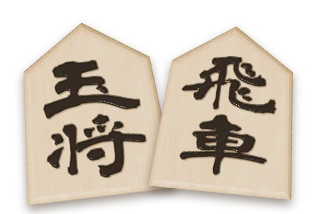
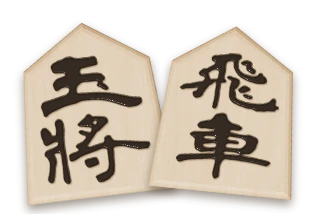
将棋3D駒：隷書を彫り駒らしく（骨格に沿った均一な太さ・大きく・將）
Claude-Session: https://claude.ai/code/session_01EiWRAWLV8eg6m15v5x8gee

Changed region(s): [[0.125, 0.2523, 0.4688, 0.8692], [0.5625, 0.2243, 0.875, 0.5607], [0.5312, 0.5607, 0.8438, 0.8411]]

diff --git a/atlas/lazy.js b/atlas/lazy.js
@@ -5,7 +5,7 @@
      AtlasLazy.has3D(id) / hasPlay(id) / hasRules(id) — known before loading; AtlasLazy.loaded(id) */
 (function () {
 'use strict';
-const G = {"reversi": ["games/reversi.js?v=38", "rules/reversi.js?v=14"], "shogi": ["models/shogi.js?v=51", "games/shogi-play.js?v=33", "games/shogi.js?v=14", "rules/shogi.js?v=21"], "chess": ["models/chess.js?v=16", "games/chess.js?v=15", "rules/chess.js?v=7"], "backgammon": ["models/backgammon.js?v=118", "games/backgammon.js?v=22", "rules/backgammon.js?v=11"], "gomoku": ["models/goban.js?v=14", "games/gomoku.js?v=12", "rules/gomoku.js?v=9"], "go": ["models/goban.js?v=14", "games/go.js?v=7", "rules/go.js?v=7"], "hex": ["models/goban.js?v=14", "models/hex.js?v=2", "games/hex.js?v=6", "rules/hex.js?v=6"], "tafl": ["games/tafl.js?v=15", "rules/tafl.js?v=7"], "xiangqi": ["models/xiangqi.js?v=4", "games/xiangqi.js?v=13", "rules/xiangqi.js?v=6"], "janggi": ["models/xiangqi.js?v=4", "models/janggi.js?v=3", "games/janggi.js?v=5", "rules/janggi.js?v=2"], "checkers": ["models/checkers.js?v=17", "games/checkers.js?v=8", "rules/checkers.js?v=4"], "ugolki": ["models/checkers.js?v=17", "models/ugolki.js?v=4", "games/ugolki.js?v=8", "rules/ugolki.js?v=8"], "morris": ["models/morris.js?v=7", "games/morris-pieces.js?v=2", "games/morris.js?v=7", "rules/morris.js?v=5"], "connect4": ["models/connect4.js?v=5", "games/connect4-tiles.js?v=1", "games/connect4.js?v=5", "rules/connect4.js?v=3"], "mancala": ["models/mancala.js?v=5", "games/mancala.js?v=10", "rules/mancala.js?v=4"], "dots": ["models/dots.js?v=4", "games/dots.js?v=9", "rules/dots.js?v=3"], "ur": ["models/ur-dice.js?v=2", "models/ur.js?v=4", "games/ur-kit.js?v=15", "games/ur.js?v=11", "rules/ur.js?v=16"], "fanorona": ["models/fanorona.js?v=4", "games/fanorona.js?v=6", "rules/fanorona.js?v=8"], "konane": ["models/konane.js?v=7", "games/konane.js?v=11", "rules/konane.js?v=5"], "amazons": ["models/amazons.js?v=7", "games/amazons.js?v=10", "rules/amazons.js?v=4"], "senet": ["models/ur-dice.js?v=2", "models/senet.js?v=10", "games/senet-kit.js?v=5", "games/senet.js?v=16", "rules/senet.js?v=8"], "agon": ["models/agon.js?v=4", "games/agon.js?v=11", "rules/agon.js?v=5"], "alquerque": ["models/alquerque.js?v=3", "rules/alquerque.js?v=6"], "ludo": ["../ludo/engine.js?v=3", "../ludo/house.js?v=7", "../ludo/board2d.js?v=7", "../ludo/board-art.js?v=3", "models/ludo.js?v=10", "games/ludo.js?v=28", "rules/ludo.js?v=3"], "carrom": ["../carrom/engine.js?v=6", "models/carrom.js?v=17", "games/carrom.js?v=37", "rules/carrom.js?v=8"], "crokinole": ["../carrom/engine.js?v=6", "games/carrom.js?v=37", "../crokinole/engine.js?v=3", "models/crokinole.js?v=12", "games/crokinole.js?v=14", "rules/crokinole.js?v=4"], "hockey": ["../hockey/engine.js?v=13", "models/hockey.js?v=8", "games/hockey.js?v=19", "rules/hockey.js?v=7"], "peg": ["../peg/engine.js?v=1", "../peg/i18n.js?v=6", "models/peg.js?v=6", "games/peg.js?v=1", "rules/peg.js?v=4"]};
+const G = {"reversi": ["games/reversi.js?v=38", "rules/reversi.js?v=14"], "shogi": ["models/shogi.js?v=52", "games/shogi-play.js?v=33", "games/shogi.js?v=14", "rules/shogi.js?v=21"], "chess": ["models/chess.js?v=16", "games/chess.js?v=15", "rules/chess.js?v=7"], "backgammon": ["models/backgammon.js?v=118", "games/backgammon.js?v=22", "rules/backgammon.js?v=11"], "gomoku": ["models/goban.js?v=14", "games/gomoku.js?v=12", "rules/gomoku.js?v=9"], "go": ["models/goban.js?v=14", "games/go.js?v=7", "rules/go.js?v=7"], "hex": ["models/goban.js?v=14", "models/hex.js?v=2", "games/hex.js?v=6", "rules/hex.js?v=6"], "tafl": ["games/tafl.js?v=15", "rules/tafl.js?v=7"], "xiangqi": ["models/xiangqi.js?v=4", "games/xiangqi.js?v=13", "rules/xiangqi.js?v=6"], "janggi": ["models/xiangqi.js?v=4", "models/janggi.js?v=3", "games/janggi.js?v=5", "rules/janggi.js?v=2"], "checkers": ["models/checkers.js?v=17", "games/checkers.js?v=8", "rules/checkers.js?v=4"], "ugolki": ["models/checkers.js?v=17", "models/ugolki.js?v=4", "games/ugolki.js?v=8", "rules/ugolki.js?v=8"], "morris": ["models/morris.js?v=7", "games/morris-pieces.js?v=2", "games/morris.js?v=7", "rules/morris.js?v=5"], "connect4": ["models/connect4.js?v=5", "games/connect4-tiles.js?v=1", "games/connect4.js?v=5", "rules/connect4.js?v=3"], "mancala": ["models/mancala.js?v=5", "games/mancala.js?v=10", "rules/mancala.js?v=4"], "dots": ["models/dots.js?v=4", "games/dots.js?v=9", "rules/dots.js?v=3"], "ur": ["models/ur-dice.js?v=2", "models/ur.js?v=4", "games/ur-kit.js?v=15", "games/ur.js?v=11", "rules/ur.js?v=16"], "fanorona": ["models/fanorona.js?v=4", "games/fanorona.js?v=6", "rules/fanorona.js?v=8"], "konane": ["models/konane.js?v=7", "games/konane.js?v=11", "rules/konane.js?v=5"], "amazons": ["models/amazons.js?v=7", "games/amazons.js?v=10", "rules/amazons.js?v=4"], "senet": ["models/ur-dice.js?v=2", "models/senet.js?v=10", "games/senet-kit.js?v=5", "games/senet.js?v=16", "rules/senet.js?v=8"], "agon": ["models/agon.js?v=4", "games/agon.js?v=11", "rules/agon.js?v=5"], "alquerque": ["models/alquerque.js?v=3", "rules/alquerque.js?v=6"], "ludo": ["../ludo/engine.js?v=3", "../ludo/house.js?v=7", "../ludo/board2d.js?v=7", "../ludo/board-art.js?v=3", "models/ludo.js?v=10", "games/ludo.js?v=28", "rules/ludo.js?v=3"], "carrom": ["../carrom/engine.js?v=6", "models/carrom.js?v=17", "games/carrom.js?v=37", "rules/carrom.js?v=8"], "crokinole": ["../carrom/engine.js?v=6", "games/carrom.js?v=37", "../crokinole/engine.js?v=3", "models/crokinole.js?v=12", "games/crokinole.js?v=14", "rules/crokinole.js?v=4"], "hockey": ["../hockey/engine.js?v=13", "models/hockey.js?v=8", "games/hockey.js?v=19", "rules/hockey.js?v=7"], "peg": ["../peg/engine.js?v=1", "../peg/i18n.js?v=6", "models/peg.js?v=6", "games/peg.js?v=1", "rules/peg.js?v=4"]};
 const F = {"reversi": {"t3": true, "play": true, "rules": true}, "shogi": {"t3": true, "play": true, "rules": true}, "chess": {"t3": true, "play": true, "rules": true}, "backgammon": {"t3": true, "play": true, "rules": true}, "gomoku": {"t3": true, "play": true, "rules": true}, "go": {"t3": true, "play": true, "rules": true}, "hex": {"t3": true, "play": true, "rules": true}, "tafl": {"t3": true, "play": true, "rules": true}, "xiangqi": {"t3": true, "play": true, "rules": true}, "janggi": {"t3": true, "play": true, "rules": true}, "checkers": {"t3": true, "play": true, "rules": true}, "ugolki": {"t3": true, "play": true, "rules": true}, "morris": {"t3": true, "play": true, "rules": true}, "connect4": {"t3": true, "play": true, "rules": true}, "mancala": {"t3": true, "play": true, "rules": true}, "dots": {"t3": true, "play": true, "rules": true}, "ur": {"t3": true, "play": true, "rules": true}, "fanorona": {"t3": true, "play": true, "rules": true}, "konane": {"t3": true, "play": true, "rules": true}, "amazons": {"t3": true, "play": true, "rules": true}, "senet": {"t3": true, "play": true, "rules": true}, "agon": {"t3": true, "play": true, "rules": true}, "alquerque": {"t3": true, "play": false, "rules": true}, "ludo": {"t3": true, "play": true, "rules": true}, "carrom": {"t3": true, "play": true, "rules": true}, "crokinole": {"t3": true, "play": true, "rules": true}, "hockey": {"t3": true, "play": true, "rules": true}, "peg": {"t3": true, "play": true, "rules": true}};
 const done = new Set(), loading = new Map(), ok = new Set();
 function load(src) {

diff --git a/dots/index.html b/dots/index.html
@@ -2299,7 +2299,7 @@ document.querySelector('#rsResume').onclick = () => { document.querySelector('#r
   const f = document.createElement('link'); f.rel = 'stylesheet'; f.href = 'https://fonts.googleapis.com/css2?family=RocknRoll+One&family=Zen+Maru+Gothic:wght@500;700;900&family=Fredoka:wght@600;700&family=Kalam:wght@400;700&family=Zen+Kurenaido&family=Nanum+Pen+Script&family=Long+Cang&family=Aref+Ruqaa:wght@700&display=swap'; document.head.appendChild(f);   // (Kalam … Aref Ruqaa: the handwritten box initials and tally on the notebook page)
   const load = src => new Promise((res, rej) => { const s = document.createElement('script'); s.src = src; s.onload = res; s.onerror = rej; document.body.appendChild(s); });
   if (window.AtlasLoading) { AtlasLoading.show(); setTimeout(() => AtlasLoading.hide(), 12000); }   // safety net
-  load('https://cdnjs.cloudflare.com/ajax/libs/three.js/r128/three.min.js').then(() => load('../atlas/img/tex/baked.js?v=1')).then(() => load('../atlas/table3d.js?v=152')).then(() => load('../atlas/tables3d.js?v=71')).then(() => load('../atlas/skin/common.js?v=71')).then(() => load('../atlas/models/dots.js?v=3l14')).then(() => load('../atlas/skin/dots.js?v=7l14'))
+  load('https://cdnjs.cloudflare.com/ajax/libs/three.js/r128/three.min.js').then(() => load('../atlas/img/tex/baked.js?v=1')).then(() => load('../atlas/table3d.js?v=152')).then(() => load('../atlas/tables3d.js?v=72')).then(() => load('../atlas/skin/common.js?v=71')).then(() => load('../atlas/models/dots.js?v=3l14')).then(() => load('../atlas/skin/dots.js?v=7l14'))
     .catch(() => { document.documentElement.classList.remove('atlas-skin'); if (window.AtlasLoading) AtlasLoading.hide(); });
 })();
 </script>

diff --git a/ur/index.html b/ur/index.html
@@ -1029,7 +1029,7 @@ html:not([lang=ja]):not([lang=zh]):not([lang="zh-TW"]):not([lang=ko]) .result-bi
   const f = document.createElement('link'); f.rel = 'stylesheet'; f.href = 'https://fonts.googleapis.com/css2?family=RocknRoll+One&family=Zen+Maru+Gothic:wght@500;700;900&family=Fredoka:wght@600;700&display=swap'; document.head.appendChild(f);
   const load = src => new Promise((res, rej) => { const s = document.createElement('script'); s.src = src; s.onload = res; s.onerror = rej; document.body.appendChild(s); });
   if (window.AtlasLoading) { AtlasLoading.show(); setTimeout(() => AtlasLoading.hide(), 12000); }   // safety net
-  load('https://cdnjs.cloudflare.com/ajax/libs/three.js/r128/three.min.js').then(() => load('../atlas/img/tex/baked.js?v=1')).then(() => load('../atlas/table3d.js?v=152')).then(() => load('../atlas/tables3d.js?v=71')).then(() => load('../atlas/skin/common.js?v=71')).then(() => load('../atlas/models/ur-dice.js?v=2l14')).then(() => load('../atlas/models/ur.js?v=3l14')).then(() => load('../atlas/skin/ur.js?v=14l14'))
+  load('https://cdnjs.cloudflare.com/ajax/libs/three.js/r128/three.min.js').then(() => load('../atlas/img/tex/baked.js?v=1')).then(() => load('../atlas/table3d.js?v=152')).then(() => load('../atlas/tables3d.js?v=72')).then(() => load('../atlas/skin/common.js?v=71')).then(() => load('../atlas/models/ur-dice.js?v=2l14')).then(() => load('../atlas/models/ur.js?v=3l14')).then(() => load('../atlas/skin/ur.js?v=14l14'))
     .catch(() => { const u = new URL(location.href); u.searchParams.delete('skin'); location.replace(u.href); });   // (the 3D files are missing: the plain 2D page)
 })();
 </script>

diff --git a/connect4/index.html b/connect4/index.html
@@ -3390,7 +3390,7 @@ document.addEventListener('keydown', e => {
   const f = document.createElement('link'); f.rel = 'stylesheet'; f.href = 'https://fonts.googleapis.com/css2?family=RocknRoll+One&family=Zen+Maru+Gothic:wght@500;700;900&family=Fredoka:wght@600;700&display=swap'; document.head.appendChild(f);
   const load = src => new Promise((res, rej) => { const s = document.createElement('script'); s.src = src; s.onload = res; s.onerror = rej; document.body.appendChild(s); });
   if (window.AtlasLoading) { AtlasLoading.show(); setTimeout(() => AtlasLoading.hide(), 12000); }   // safety net
-  load('https://cdnjs.cloudflare.com/ajax/libs/three.js/r128/three.min.js').then(() => load('../atlas/img/tex/baked.js?v=1')).then(() => load('../atlas/table3d.js?v=152')).then(() => load('../atlas/tables3d.js?v=71')).then(() => load('../atlas/skin/common.js?v=71')).then(() => load('../atlas/models/connect4.js?v=5l14')).then(() => load('../atlas/games/connect4-tiles.js?v=1l14')).then(() => load('../atlas/skin/connect4.js?v=6l14-aim'))
+  load('https://cdnjs.cloudflare.com/ajax/libs/three.js/r128/three.min.js').then(() => load('../atlas/img/tex/baked.js?v=1')).then(() => load('../atlas/table3d.js?v=152')).then(() => load('../atlas/tables3d.js?v=72')).then(() => load('../atlas/skin/common.js?v=71')).then(() => load('../atlas/models/connect4.js?v=5l14')).then(() => load('../atlas/games/connect4-tiles.js?v=1l14')).then(() => load('../atlas/skin/connect4.js?v=6l14-aim'))
     .catch(() => { document.documentElement.classList.remove('atlas-skin'); if (window.AtlasLoading) AtlasLoading.hide(); });
 })();
 </script>

diff --git a/morris/index.html b/morris/index.html
@@ -3897,7 +3897,7 @@ window.addEventListener('resize', () => renderFx());
   const f = document.createElement('link'); f.rel = 'stylesheet'; f.href = 'https://fonts.googleapis.com/css2?family=RocknRoll+One&family=Zen+Maru+Gothic:wght@500;700;900&family=Fredoka:wght@600;700&display=swap'; document.head.appendChild(f);
   const load = src => new Promise((res, rej) => { const s = document.createElement('script'); s.src = src; s.onload = res; s.onerror = rej; document.body.appendChild(s); });
   if (window.AtlasLoading) { AtlasLoading.show(); setTimeout(() => AtlasLoading.hide(), 12000); }   // safety net
-  load('https://cdnjs.cloudflare.com/ajax/libs/three.js/r128/three.min.js').then(() => load('../atlas/img/tex/baked.js?v=1')).then(() => load('../atlas/table3d.js?v=152')).then(() => load('../atlas/tables3d.js?v=71')).then(() => load('../atlas/skin/common.js?v=71')).then(() => load('../atlas/models/morris.js?v=6l14')).then(() => load('../atlas/games/morris-pieces.js?v=2l14')).then(() => load('../atlas/skin/morris.js?v=6l15'))
+  load('https://cdnjs.cloudflare.com/ajax/libs/three.js/r128/three.min.js').then(() => load('../atlas/img/tex/baked.js?v=1')).then(() => load('../atlas/table3d.js?v=152')).then(() => load('../atlas/tables3d.js?v=72')).then(() => load('../atlas/skin/common.js?v=71')).then(() => load('../atlas/models/morris.js?v=6l14')).then(() => load('../atlas/games/morris-pieces.js?v=2l14')).then(() => load('../atlas/skin/morris.js?v=6l15'))
     .catch(() => { document.documentElement.classList.remove('atlas-skin'); if (window.AtlasLoading) AtlasLoading.hide(); });
 })();
 </script>

diff --git a/senet/index.html b/senet/index.html
@@ -1030,7 +1030,7 @@ html:not([lang=ja]):not([lang=zh]):not([lang=zh-TW]):not([lang=ko]) .result-big{
   const f = document.createElement('link'); f.rel = 'stylesheet'; f.href = 'https://fonts.googleapis.com/css2?family=RocknRoll+One&family=Zen+Maru+Gothic:wght@500;700;900&family=Fredoka:wght@600;700&display=swap'; document.head.appendChild(f);
   const load = src => new Promise((res, rej) => { const s = document.createElement('script'); s.src = src; s.onload = res; s.onerror = rej; document.body.appendChild(s); });
   if (window.AtlasLoading) { AtlasLoading.show(); setTimeout(() => AtlasLoading.hide(), 12000); }   // safety net
-  load('https://cdnjs.cloudflare.com/ajax/libs/three.js/r128/three.min.js').then(() => load('../atlas/img/tex/baked.js?v=1')).then(() => load('../atlas/table3d.js?v=152')).then(() => load('../atlas/tables3d.js?v=71')).then(() => load('../atlas/skin/common.js?v=71')).then(() => load('../atlas/models/senet.js?v=10l14')).then(() => load('../atlas/skin/senet.js?v=10l14'))
+  load('https://cdnjs.cloudflare.com/ajax/libs/three.js/r128/three.min.js').then(() => load('../atlas/img/tex/baked.js?v=1')).then(() => load('../atlas/table3d.js?v=152')).then(() => load('../atlas/tables3d.js?v=72')).then(() => load('../atlas/skin/common.js?v=71')).then(() => load('../atlas/models/senet.js?v=10l14')).then(() => load('../atlas/skin/senet.js?v=10l14'))
     .catch(() => { const u = new URL(location.href); u.searchParams.delete('skin'); location.replace(u.href); });   // (the 3D files are missing: the plain 2D page)
 })();
 </script>

diff --git a/fanorona/index.html b/fanorona/index.html
@@ -1687,7 +1687,7 @@ body.lt-on .reserve .onb.on{border-color:var(--accent);box-shadow:0 0 0 1px var(
   const f = document.createElement('link'); f.rel = 'stylesheet'; f.href = 'https://fonts.googleapis.com/css2?family=RocknRoll+One&family=Zen+Maru+Gothic:wght@500;700;900&family=Fredoka:wght@600;700&display=swap'; document.head.appendChild(f);
   const load = src => new Promise((res, rej) => { const s = document.createElement('script'); s.src = src; s.onload = res; s.onerror = rej; document.body.appendChild(s); });
   if (window.AtlasLoading) { AtlasLoading.show(); setTimeout(() => AtlasLoading.hide(), 12000); }   // safety net
-  load('https://cdnjs.cloudflare.com/ajax/libs/three.js/r128/three.min.js').then(() => load('../atlas/img/tex/baked.js?v=1')).then(() => load('../atlas/table3d.js?v=152')).then(() => load('../atlas/tables3d.js?v=71')).then(() => load('../atlas/skin/common.js?v=71')).then(() => load('../atlas/models/fanorona.js?v=3l14')).then(() => load('../atlas/skin/fanorona.js?v=6l14'))
+  load('https://cdnjs.cloudflare.com/ajax/libs/three.js/r128/three.min.js').then(() => load('../atlas/img/tex/baked.js?v=1')).then(() => load('../atlas/table3d.js?v=152')).then(() => load('../atlas/tables3d.js?v=72')).then(() => load('../atlas/skin/common.js?v=71')).then(() => load('../atlas/models/fanorona.js?v=3l14')).then(() => load('../atlas/skin/fanorona.js?v=6l14'))
     .catch(() => { document.documentElement.classList.remove('atlas-skin'); if (window.AtlasLoading) AtlasLoading.hide(); });
 })();
 </script>

diff --git a/mancala/index.html b/mancala/index.html
@@ -1586,7 +1586,7 @@ html[data-sk=ocean] .seed{box-shadow:0 calc(var(--u) * .025) calc(var(--u) * .04
   const f = document.createElement('link'); f.rel = 'stylesheet'; f.href = 'https://fonts.googleapis.com/css2?family=RocknRoll+One&family=Zen+Maru+Gothic:wght@500;700;900&family=Fredoka:wght@600;700&display=swap'; document.head.appendChild(f);
   const load = src => new Promise((res, rej) => { const s = document.createElement('script'); s.src = src; s.onload = res; s.onerror = rej; document.body.appendChild(s); });
   if (window.AtlasLoading) { AtlasLoading.show(); setTimeout(() => AtlasLoading.hide(), 12000); }   // safety net
-  load('https://cdnjs.cloudflare.com/ajax/libs/three.js/r128/three.min.js').then(() => load('../atlas/img/tex/baked.js?v=1')).then(() => load('../atlas/table3d.js?v=152')).then(() => load('../atlas/tables3d.js?v=71')).then(() => load('../atlas/skin/common.js?v=71')).then(() => load('../atlas/models/mancala.js?v=4l14')).then(() => load('../atlas/skin/mancala.js?v=10l14'))
+  load('https://cdnjs.cloudflare.com/ajax/libs/three.js/r128/three.min.js').then(() => load('../atlas/img/tex/baked.js?v=1')).then(() => load('../atlas/table3d.js?v=152')).then(() => load('../atlas/tables3d.js?v=72')).then(() => load('../atlas/skin/common.js?v=71')).then(() => load('../atlas/models/mancala.js?v=4l14')).then(() => load('../atlas/skin/mancala.js?v=10l14'))
     .catch(() => { document.documentElement.classList.remove('atlas-skin'); if (window.AtlasLoading) AtlasLoading.hide(); });
 })();
 </script>

diff --git a/gomoku/index.html b/gomoku/index.html
@@ -1445,7 +1445,7 @@ body.skin-ink .st.b{background:radial-gradient(circle at 34% 28%,#8a8f98 0%,#3c4
   const f = document.createElement('link'); f.rel = 'stylesheet'; f.href = 'https://fonts.googleapis.com/css2?family=RocknRoll+One&family=Zen+Maru+Gothic:wght@500;700;900&family=Fredoka:wght@600;700&display=swap'; document.head.appendChild(f);
   const load = src => new Promise((res, rej) => { const s = document.createElement('script'); s.src = src; s.onload = res; s.onerror = rej; document.body.appendChild(s); });
   if (window.AtlasLoading) { AtlasLoading.show(); setTimeout(() => AtlasLoading.hide(), 12000); }   // safety net
-  load('https://cdnjs.cloudflare.com/ajax/libs/three.js/r128/three.min.js').then(() => load('../atlas/img/tex/baked.js?v=1')).then(() => load('../atlas/table3d.js?v=152')).then(() => load('../atlas/tables3d.js?v=71')).then(() => load('../atlas/skin/common.js?v=71')).then(() => load('../atlas/models/goban.js?v=11l14')).then(() => load('../atlas/skin/gomoku.js?v=4l14'))
+  load('https://cdnjs.cloudflare.com/ajax/libs/three.js/r128/three.min.js').then(() => load('../atlas/img/tex/baked.js?v=1')).then(() => load('../atlas/table3d.js?v=152')).then(() => load('../atlas/tables3d.js?v=72')).then(() => load('../atlas/skin/common.js?v=71')).then(() => load('../atlas/models/goban.js?v=11l14')).then(() => load('../atlas/skin/gomoku.js?v=4l14'))
     .catch(() => { document.documentElement.classList.remove('atlas-skin'); if (window.AtlasLoading) AtlasLoading.hide(); });
 })();
 </script>

diff --git a/ugolki/index.html b/ugolki/index.html
@@ -1393,7 +1393,7 @@ html:is([data-bd=gzhel],[data-bd=birch]) .reserve .rsv-plate .rsv-w:not(.hot) b{
   const f = document.createElement('link'); f.rel = 'stylesheet'; f.href = 'https://fonts.googleapis.com/css2?family=RocknRoll+One&family=Zen+Maru+Gothic:wght@500;700;900&family=Fredoka:wght@600;700&display=swap'; document.head.appendChild(f);
   const load = src => new Promise((res, rej) => { const s = document.createElement('script'); s.src = src; s.onload = res; s.onerror = rej; document.body.appendChild(s); });
   if (window.AtlasLoading) { AtlasLoading.show(); setTimeout(() => AtlasLoading.hide(), 12000); }   // safety net
-  load('https://cdnjs.cloudflare.com/ajax/libs/three.js/r128/three.min.js').then(() => load('../atlas/img/tex/baked.js?v=1')).then(() => load('../atlas/table3d.js?v=152')).then(() => load('../atlas/tables3d.js?v=71')).then(() => load('../atlas/skin/common.js?v=71')).then(() => load('../atlas/models/ugolki.js?v=4l14')).then(() => load('../atlas/skin/ugolki.js?v=2l14'))
+  load('https://cdnjs.cloudflare.com/ajax/libs/three.js/r128/three.min.js').then(() => load('../atlas/img/tex/baked.js?v=1')).then(() => load('../atlas/table3d.js?v=152')).then(() => load('../atlas/tables3d.js?v=72')).then(() => load('../atlas/skin/common.js?v=71')).then(() => load('../atlas/models/ugolki.js?v=4l14')).then(() => load('../atlas/skin/ugolki.js?v=2l14'))
     .catch(() => { document.documentElement.classList.remove('atlas-skin'); if (window.AtlasLoading) AtlasLoading.hide(); });
 })();
 </script>

diff --git a/alquerque/index.html b/alquerque/index.html
@@ -1689,7 +1689,7 @@ window.OL_VARIANTS = ['alq', 'alqf']; window.OL_DB_PREFIX = 'alq/';
   const f = document.createElement('link'); f.rel = 'stylesheet'; f.href = 'https://fonts.googleapis.com/css2?family=RocknRoll+One&family=Zen+Maru+Gothic:wght@500;700;900&family=Fredoka:wght@600;700&display=swap'; document.head.appendChild(f);
   const load = src => new Promise((res, rej) => { const s = document.createElement('script'); s.src = src; s.onload = res; s.onerror = rej; document.body.appendChild(s); });
   if (window.AtlasLoading) { AtlasLoading.show(); setTimeout(() => AtlasLoading.hide(), 12000); }   // safety net
-  load('https://cdnjs.cloudflare.com/ajax/libs/three.js/r128/three.min.js').then(() => load('../atlas/img/tex/baked.js?v=1')).then(() => load('../atlas/table3d.js?v=152')).then(() => load('../atlas/tables3d.js?v=71')).then(() => load('../atlas/skin/common.js?v=71')).then(() => load('../atlas/models/alquerque.js?v=3l14')).then(() => load('../atlas/skin/fanorona.js?v=6l14'))
+  load('https://cdnjs.cloudflare.com/ajax/libs/three.js/r128/three.min.js').then(() => load('../atlas/img/tex/baked.js?v=1')).then(() => load('../atlas/table3d.js?v=152')).then(() => load('../atlas/tables3d.js?v=72')).then(() => load('../atlas/skin/common.js?v=71')).then(() => load('../atlas/models/alquerque.js?v=3l14')).then(() => load('../atlas/skin/fanorona.js?v=6l14'))
     .catch(() => { document.documentElement.classList.remove('atlas-skin'); if (window.AtlasLoading) AtlasLoading.hide(); });
 })();
 </script>

diff --git a/chess/index.html b/chess/index.html
@@ -1589,7 +1589,7 @@ body.in-online .coach,body.in-online #btnMistakes{display:none!important}
   const f = document.createElement('link'); f.rel = 'stylesheet'; f.href = 'https://fonts.googleapis.com/css2?family=RocknRoll+One&family=Zen+Maru+Gothic:wght@500;700;900&family=Fredoka:wght@600;700&display=swap'; document.head.appendChild(f);
   const load = src => new Promise((res, rej) => { const s = document.createElement('script'); s.src = src; s.onload = res; s.onerror = rej; document.body.appendChild(s); });
   if (window.AtlasLoading) { AtlasLoading.show(); setTimeout(() => AtlasLoading.hide(), 12000); }   // safety net
-  load('https://cdnjs.cloudflare.com/ajax/libs/three.js/r128/three.min.js').then(() => load('../atlas/img/tex/baked.js?v=1')).then(() => load('../atlas/table3d.js?v=152')).then(() => load('../atlas/tables3d.js?v=71')).then(() => load('../atlas/skin/common.js?v=71')).then(() => load('../atlas/models/chess.js?v=16l14')).then(() => load('../atlas/skin/chess.js?v=11l14'))
+  load('https://cdnjs.cloudflare.com/ajax/libs/three.js/r128/three.min.js').then(() => load('../atlas/img/tex/baked.js?v=1')).then(() => load('../atlas/table3d.js?v=152')).then(() => load('../atlas/tables3d.js?v=72')).then(() => load('../atlas/skin/common.js?v=71')).then(() => load('../atlas/models/chess.js?v=16l14')).then(() => load('../atlas/skin/chess.js?v=11l14'))
     .catch(() => { document.documentElement.classList.remove('atlas-skin'); if (window.AtlasLoading) AtlasLoading.hide(); });
 })();
 </script>
